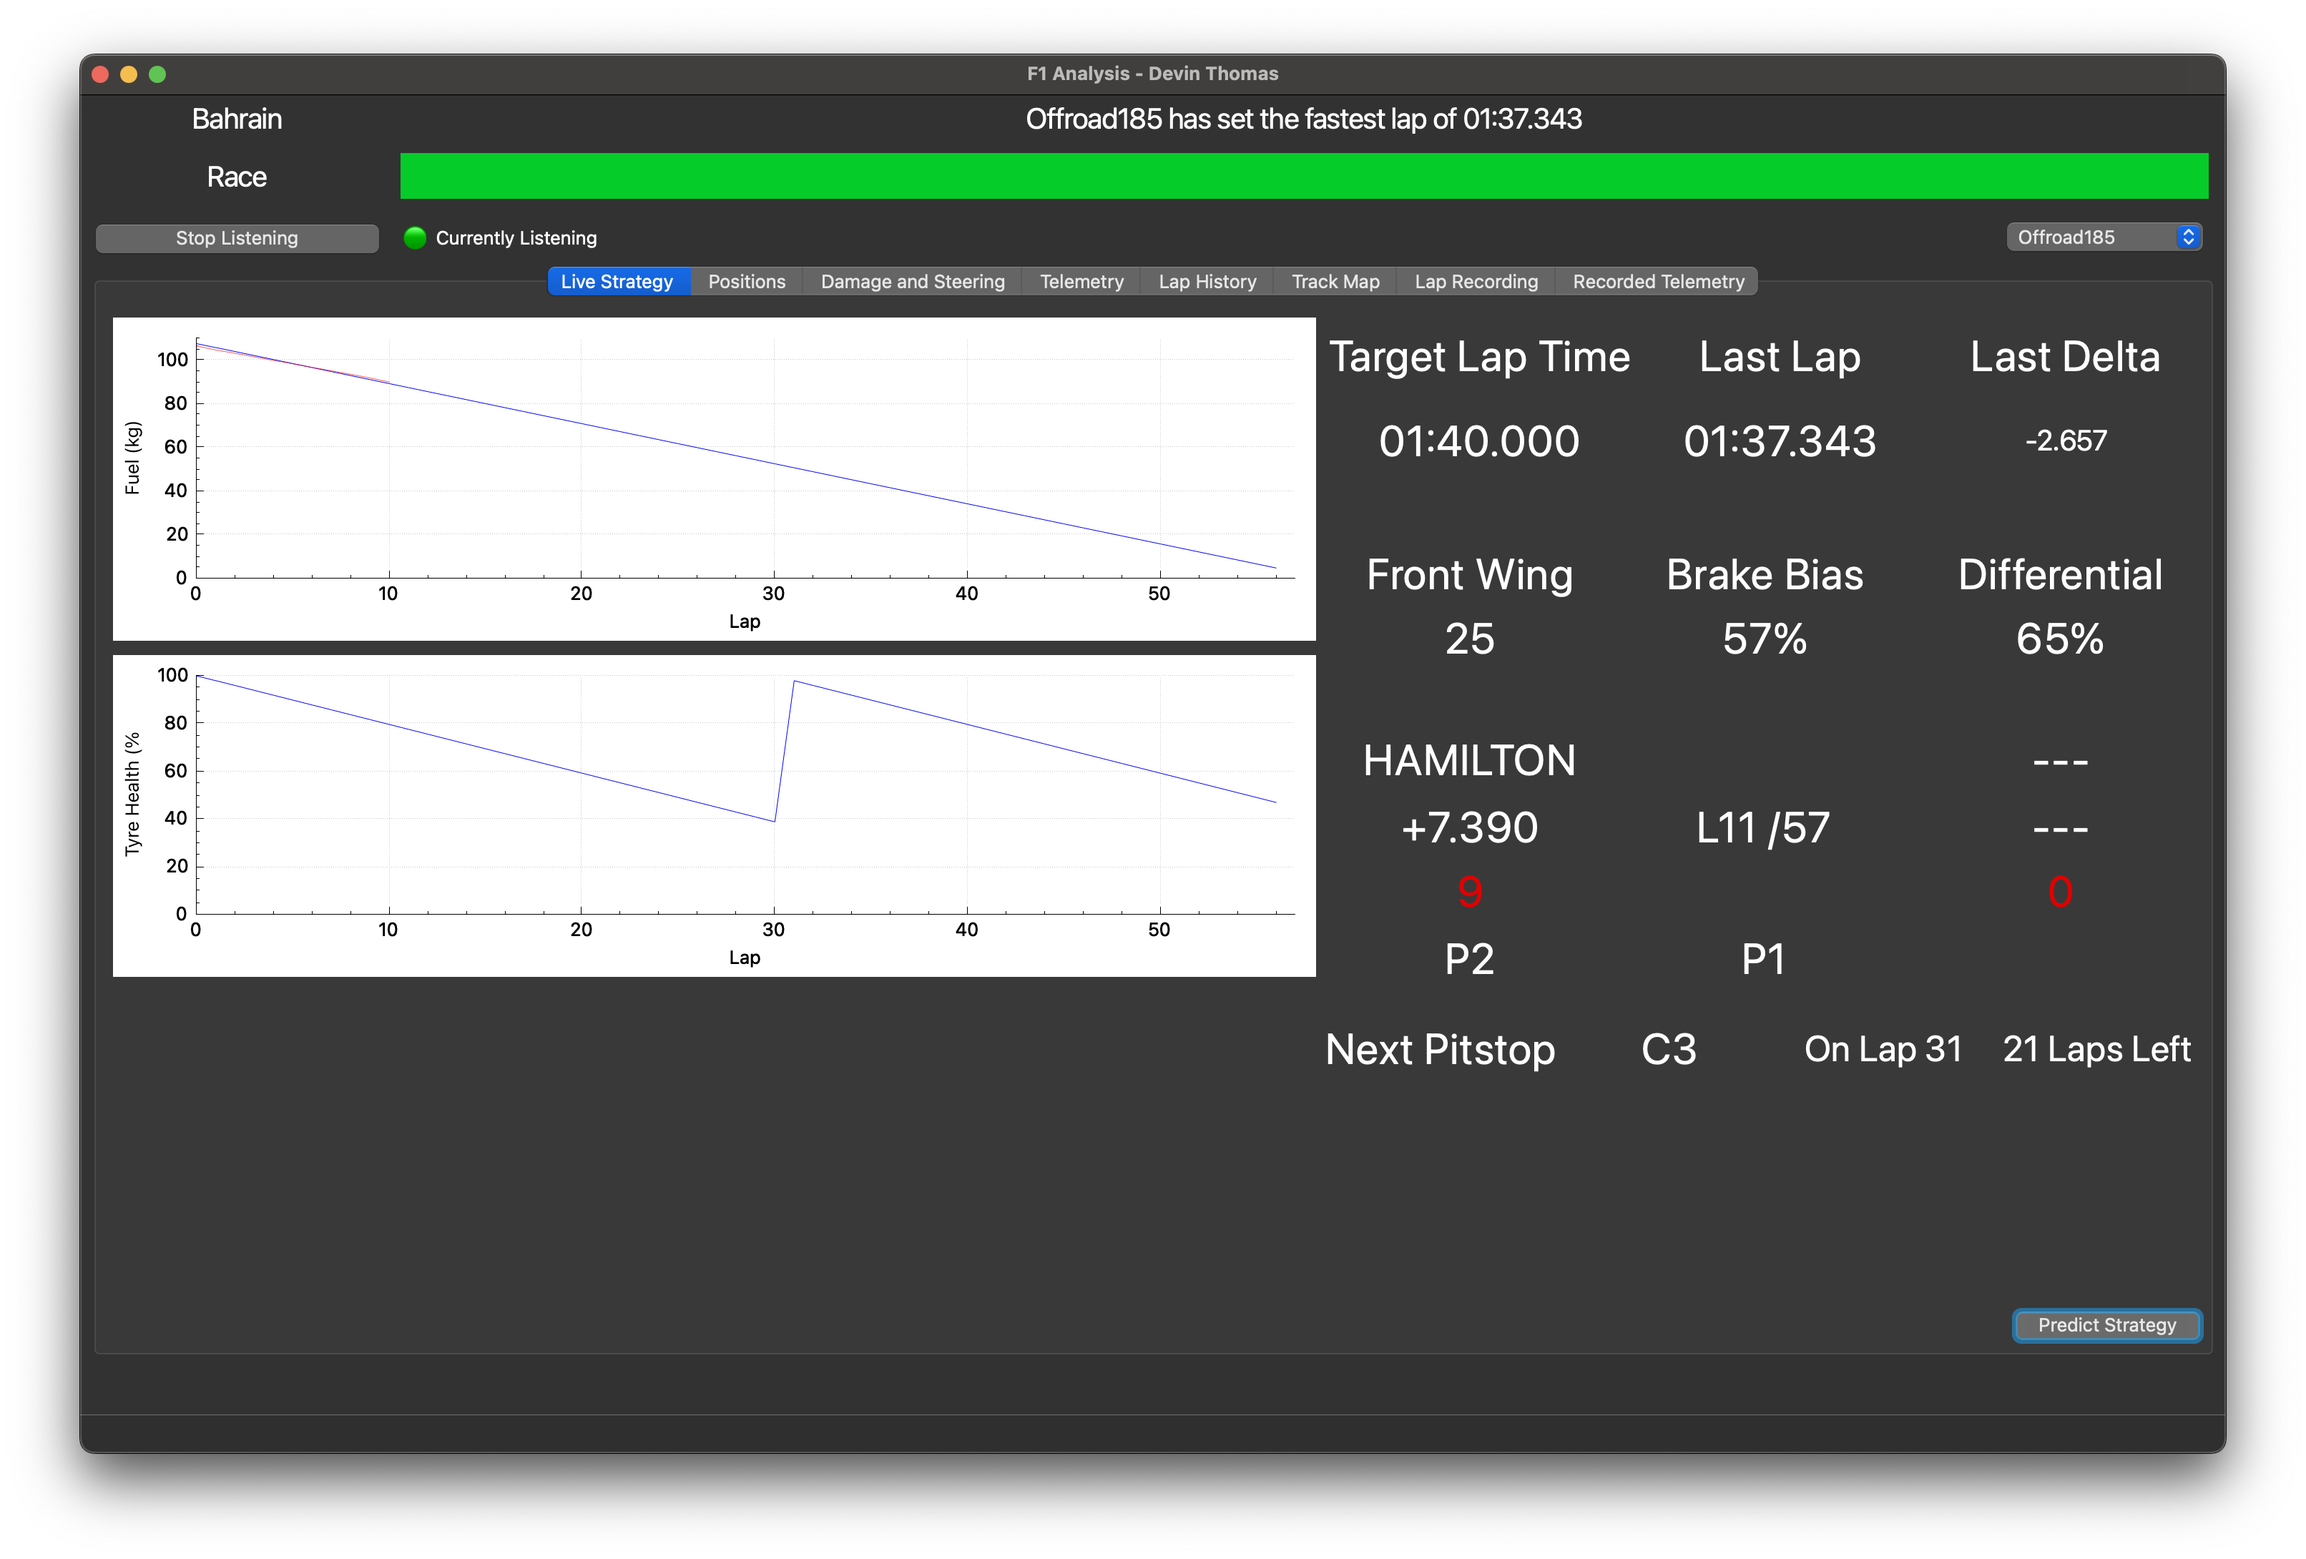
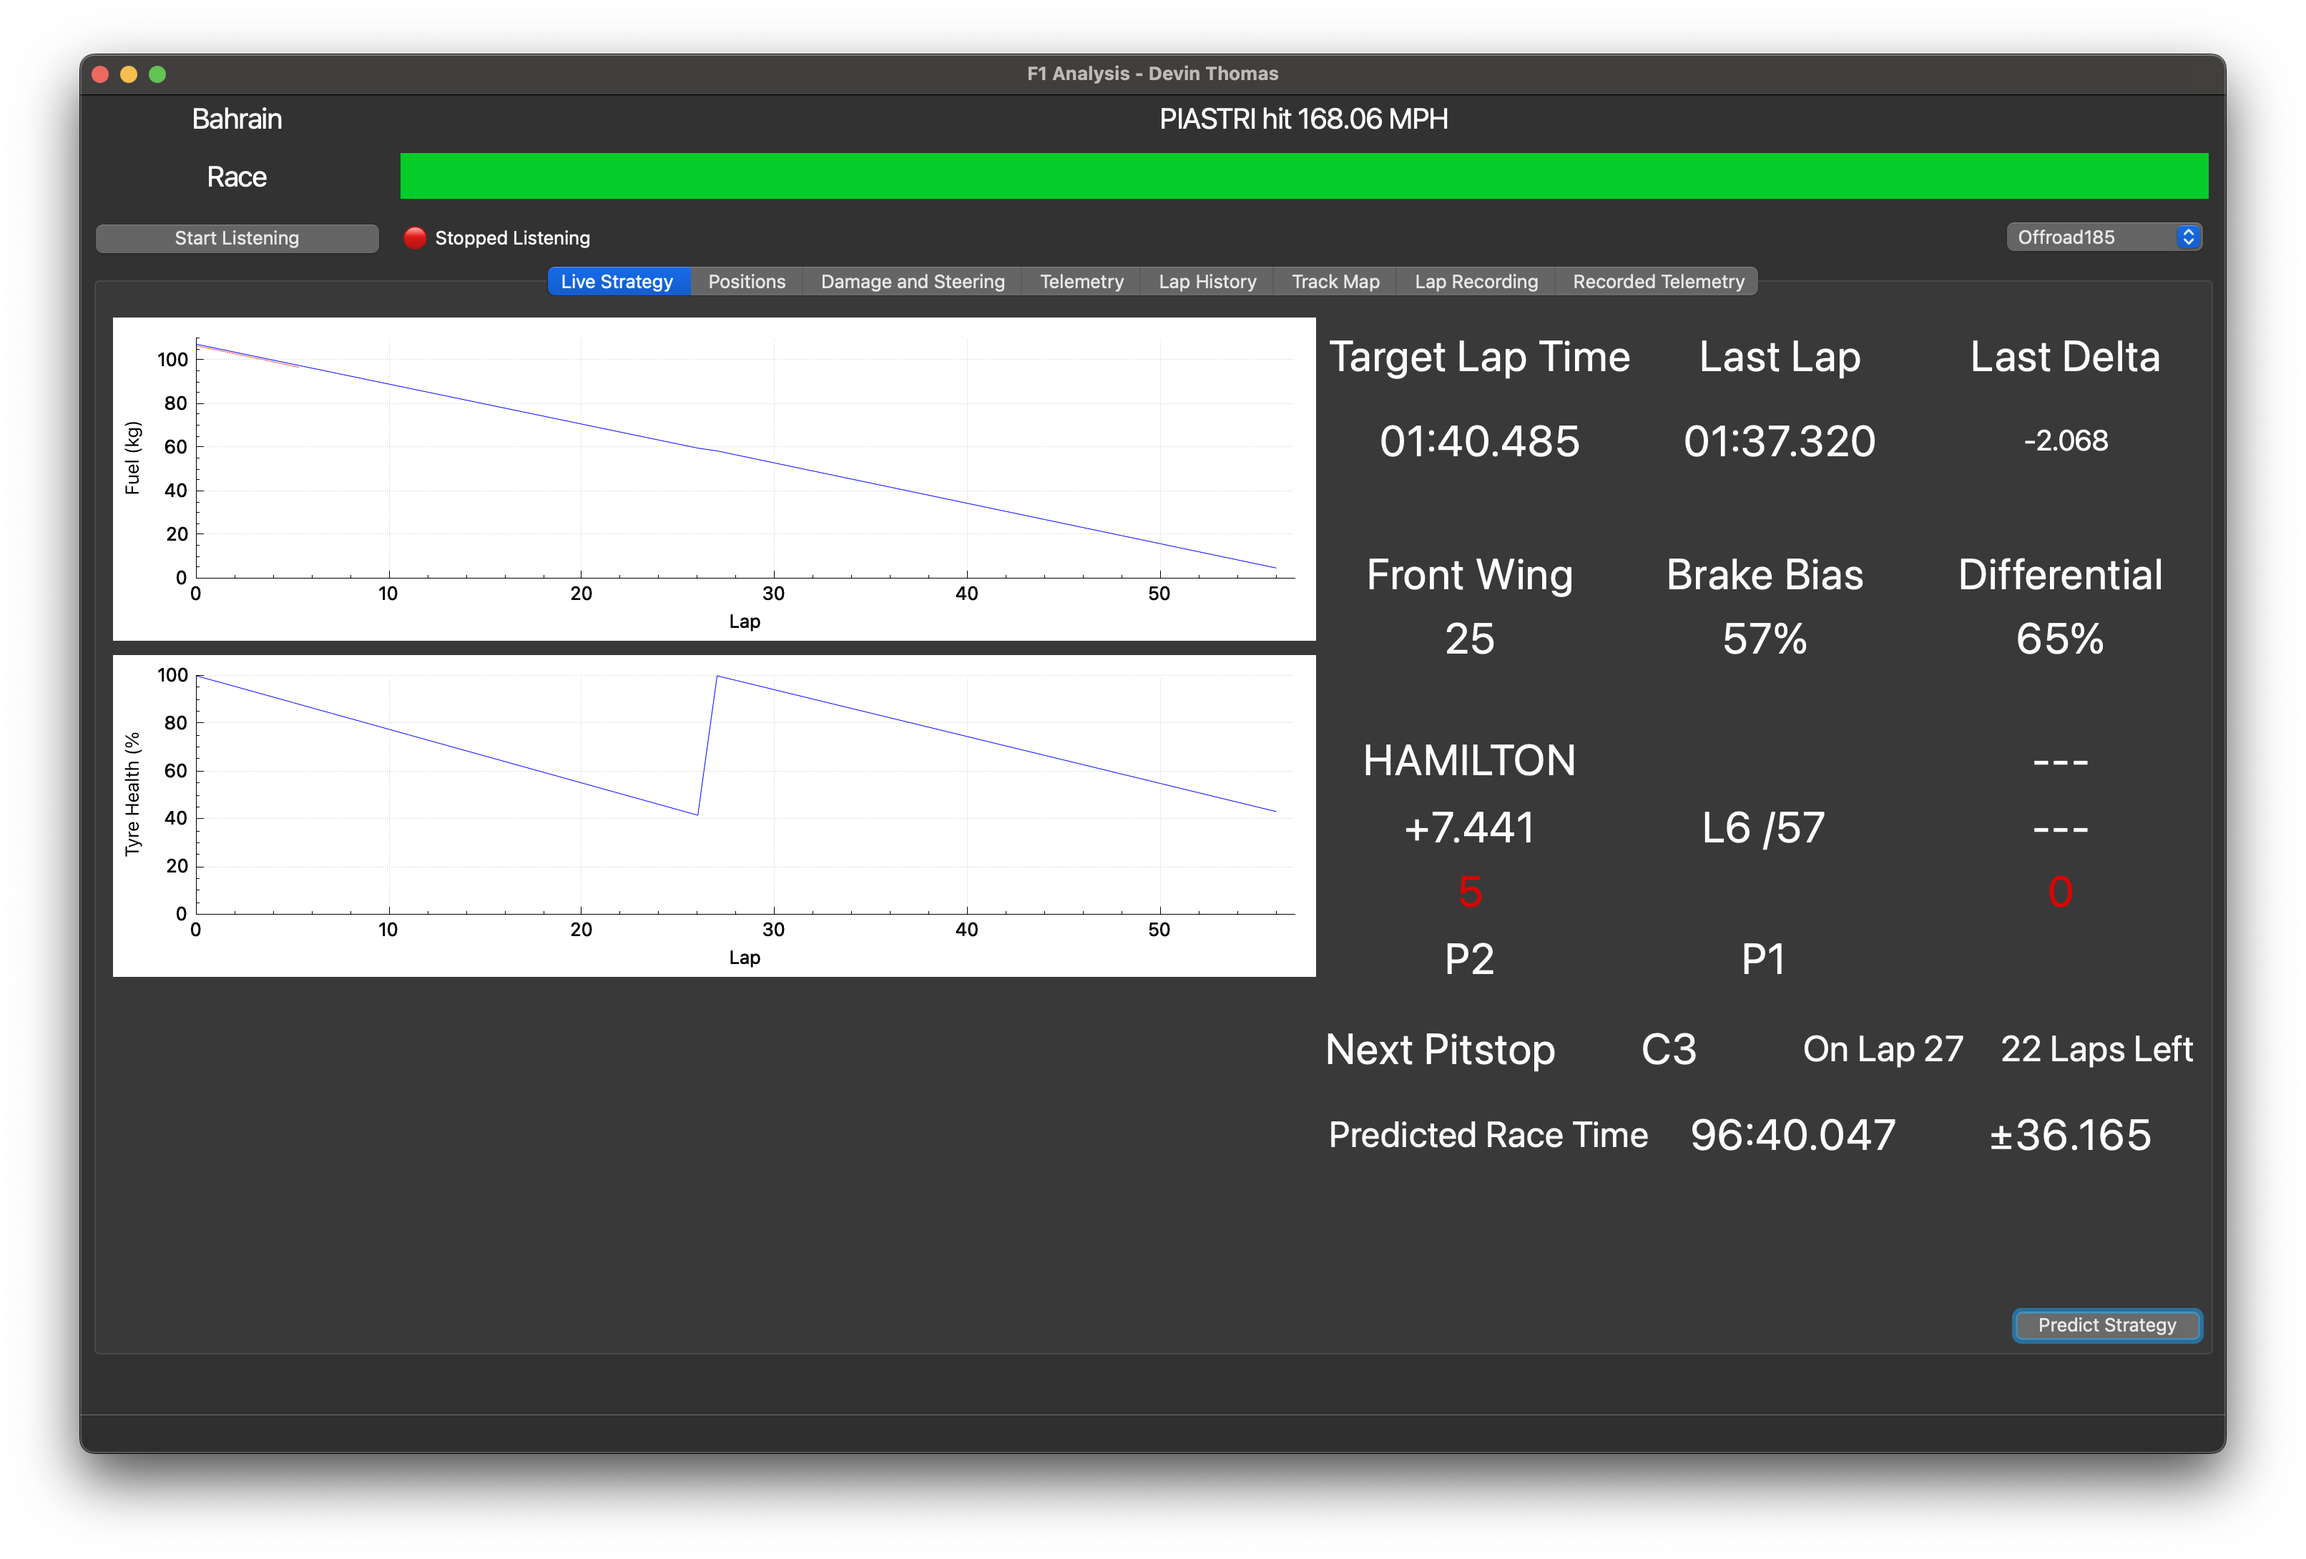
Add predicted race time and uncertainty

diff --git a/race_strategy_prediction.cpp b/race_strategy_prediction.cpp
@@ -3,6 +3,7 @@
 #include "packets.hpp"
 
 #define MINIMUM_FUEL_LEVEL 3
+#define PITSTOP_LAPTIME_INCREASE 20000 // 20,000 MS = 20 Seconds
 
 RaceStrategyPredictor::RaceStrategyPredictor(QObject *parent)
     : QObject{parent}
@@ -168,12 +169,14 @@ void RaceStrategyPredictor::simplePredictStrategy(RaceWeekend raceWeekend) {
     ActualTyreCompound currentCompound;
 
     while (currentLap < totalRacingLaps) {
+        bool isPitLap = false;
 
         // If on first lap or tyres degraded too much, or not used two tyre sets yet
         if (currentLap == 0 || tyreHealth < 40 || (usedCompounds.size() < 2 && currentLap == totalRacingLaps-2)) {
             tyreHealth = 100;
             predictedLapTime = 95000; // TODO: SHOULD NOT BE HARD CODED
 
+            isPitLap = true;
             currentCompound = usedCompounds.contains(currentCompound) ? ActualTyreCompound::C2 : ActualTyreCompound::C3;
             usedCompounds.insert(currentCompound);
         }
@@ -191,10 +194,14 @@ void RaceStrategyPredictor::simplePredictStrategy(RaceWeekend raceWeekend) {
         }
 
         currentStrategy.perLapStrategy[currentLap].predicted.fuelInTank = fuelUsage * (totalRacingLaps - currentLap) + MINIMUM_FUEL_LEVEL ;
-        currentStrategy.perLapStrategy[currentLap].predicted.lapTimeMS = predictedLapTime;
+        currentStrategy.perLapStrategy[currentLap].predicted.lapTimeMS = isPitLap ? predictedLapTime + PITSTOP_LAPTIME_INCREASE : predictedLapTime;
 
         currentStrategy.perLapStrategy[currentLap].predicted.tyreCompound = currentCompound;
         currentStrategy.perLapStrategy[currentLap].predicted.tyreHealth = tyreHealth;
+
+        // Add to the total predicted race time
+        currentStrategy.predictedRaceTime += predictedLapTime;
+        currentStrategy.predictedRaceTimeUncertainty += lapTimeStdDeviations[currentCompound];
 
         tyreHealth -= tyreDegradation;
         predictedLapTime += lapTimeIncrease; // predicted lap times are not correct

diff --git a/mainwindow.cpp b/mainwindow.cpp
@@ -1004,6 +1004,10 @@ void MainWindow::onStrategyUpdate(Strategy newStrategy) {
     // Delta of last lap to last lap target - must be at least on 2nd lap
     if (newStrategy.currentLapNumber >= 2) ui->lblDeltaTimeStrategy->setText(QString::fromStdString(formatDelta(newStrategy.perLapStrategy[newStrategy.currentLapNumber - 2].predicted.lapTimeMS, newStrategy.perLapStrategy[newStrategy.currentLapNumber - 2].actual.lapTimeMS)));
 
+    // Predicted Race Time
+    ui->lblPredictedRaceTime->setText(QString::fromStdString(formatLapTimeMS(newStrategy.predictedRaceTime)));
+    ui->lblPredictedRaceTimeUncertainty->setText("±" + QString::fromStdString(formatSectorMS(newStrategy.predictedRaceTimeUncertainty)));
+
     // Update next pitstop
     uint8_t nextPitstopLap = newStrategy.nextPitStop();
     LapStrategy pitLapStrategy = newStrategy.perLapStrategy[nextPitstopLap - 1];

diff --git a/race_strategy_prediction.hpp b/race_strategy_prediction.hpp
@@ -23,6 +23,8 @@ struct Strategy
 {
     uint8_t totalRacingLaps;
     uint8_t currentLapNumber;
+    uint32_t predictedRaceTime;
+    uint32_t predictedRaceTimeUncertainty;
     std::vector<LapStrategy> perLapStrategy;
 
     bool isPitLap(int lapNumber) {

diff --git a/TODO.md b/TODO.md
@@ -2,6 +2,7 @@
 
 ## Bugs
 
+- Strategy prediction for lap time regressions are invalid as some stints may be completed on used tyres and different fuel loads so these must be taken into account
 - Software crashes when clicking Predict Strategy without loading in a race recording
 - Fix to tyre wear in damage tab
 - If listening after already starting the race, using own player in race, the name does not appear in participants packet
@@ -23,6 +24,7 @@
 
 ## Features
 
+- Add session timer for practice and qualifying
 - Add starting fuel amount to Live Strategy tab (newStrategy.perLapStrategy[0].predicted.fuelInTank = Fuel at first lap)
 - Add tyre strategy in a graphical way to the Live Strategy tab
 - Add current tyres and tyre age to live strategy tab
